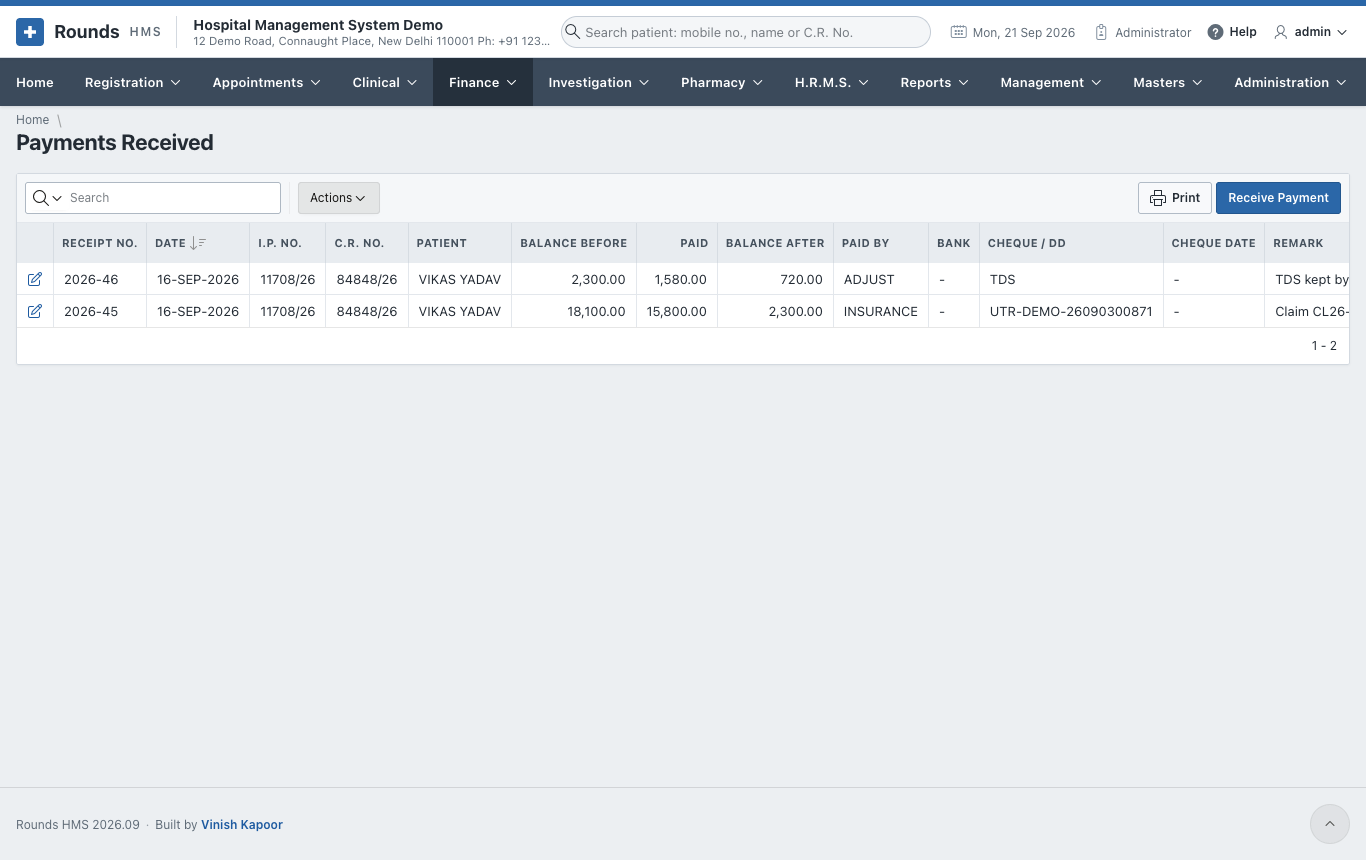
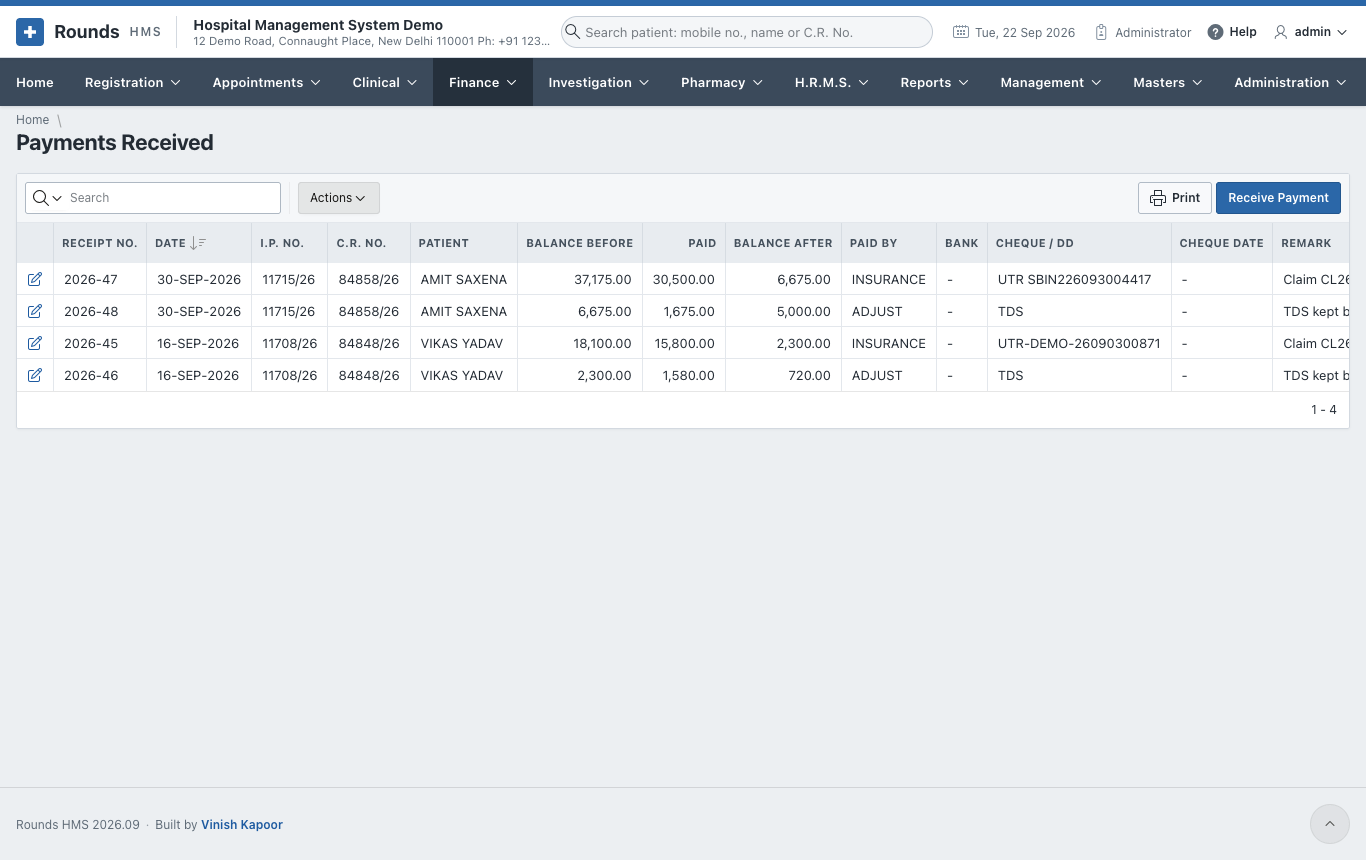
The patient's part at the counter, with pictures; the cashless workflow as it now runs
Outstanding Dues, the payment screen and Receive from a Patient are shown
for an insured admission (the insurer's part and the patient's), with a
warning not to take the insurer's part from the patient. The cashless
(TPA) workflow follows the new steps: a claim before admission, the
policy on the admission, the pre-authorisation, papers, the divided bill,
the claim sent and settled.

Changed region(s): [[0.0, 0.2721, 0.8609, 0.4535], [0.8609, 0.2721, 1.0, 0.4535], [0.6764, 0.0302, 0.7379, 0.0605]]

diff --git a/docs/workflows/index.md b/docs/workflows/index.md
@@ -65,14 +65,29 @@ steps link to the pages that explain each screen.
 
 ## A cashless (TPA) admission
 
-1. Admit the patient with the TPA or insurer as the **Empanelment**.
-2. [Open a claim](../finance/insurance.md#open-a-claim) for the admission. Fill in the policy details, and
-   record **Pre-authorisation sent**.
-3. Record the answer: approved (with the amount), a query, or denied.
-4. At discharge, make the final bill, then record **Claim sent** with the amount.
-5. When the money comes, record **Settled**: the amount, the UTR number, the TDS kept, and what was
-   disallowed. Say whether the hospital writes the disallowed part off, or the patient pays it.
-6. The [Receivables Ageing](../finance/day-end.md#receivables-ageing) shows claims still waiting.
+1. **Planned operation?** Open the claim first: **Finance > Insurance Claims > New Claim**, choose
+   [Or a Patient to Be Admitted](../finance/insurance.md#before-the-admission) and the insurer, and record
+   **Pre-authorisation sent**.
+2. **Admit** the patient: the insurer or TPA as the **Empanelment**, a bed from the free beds, and the policy
+   in the [Insurance part](../registration/admission.md#an-insured-patient) (TPA, policy no., member no.,
+   co-payment, room rent allowed). **Save** opens the claim, or takes over the one opened before.
+3. **Pre-authorisation.** Send the insurer's form the usual way. Then on the admission, **Open the Claim** >
+   **Record a Step** > **Pre-authorisation sent**, with the amount asked and the reference. (Skip this if
+   step 1 did it.)
+4. **The answer.** Record **Pre-authorisation approved** with the amount, or the query, or the denial. Ask
+   for an **enhancement** when the admission warns that the charges have passed the amount approved.
+5. **Papers.** Add the card, the ID, the forms and the letters to the claim's
+   [Papers](../finance/insurance.md#papers) as they come.
+6. **Discharge.** Make the [I.P. final bill](../finance/inpatient-billing.md#an-insured-patients-bill). It
+   shows what **the insurer pays** and what **the patient pays**. Take only the patient's part at the counter,
+   then **Save Bill and Discharge**.
+7. **Claim sent.** Send the file to the insurer, then record **Claim sent with the bills**. The amount
+   claimed is the insurer's part unless you enter another.
+8. **Settlement.** When the money comes, record **Settlement received**: the amount, the UTR number, the TDS
+   kept, and what was disallowed. Say whether the hospital writes the disallowed part off, or the patient
+   pays it.
+9. [Receivables Ageing](../finance/day-end.md#receivables-ageing) shows what each insurer still owes, and
+   the accounts keep it on the [insurer's own ledger](../finance/gst-accounts.md#insured-admissions-in-the-accounts).
 
 ## The end of the day
 

diff --git a/docs/finance/inpatient-billing.md b/docs/finance/inpatient-billing.md
@@ -98,8 +98,24 @@ the **Insurer's Part** and the **Patient's Part** beside it, and
 - **The Patient Pays**: what to ask the patient for. **Receive payment** is offered only when this is more
   than nought.
 
-For example: a bill of Rs 290 with a 10% co-payment reads *Balance (All) 290, From the Insurer 261, The
-Patient Pays 29*. The payment screen it opens shows the same two parts.
+![The dues of an insured admission](../assets/screens/finance/dues-insured.png)
+
+In the example, a bill of Rs 47,050 is owed by two people. The insurer owes Rs 45,750, which it pays when
+the claim is settled. The patient owes Rs 1,300 (the admission kit and attendant food, which insurers do not
+pay), and that is what the counter asks for.
+
+**Receive payment** opens the payment screen with both parts shown:
+
+![Receiving the patient's part](../assets/screens/finance/payment-insured.png)
+
+1. <span class="n">1</span> **Balance Due**: the whole balance of the admission.
+2. <span class="n">2</span> **Of It, from the Insurer**: not to be taken from the patient.
+3. <span class="n">3</span> **The Patient Pays**: enter this as the **Amount Received**, or less if the
+   patient pays in parts.
+
+!!! warning "Do not take the insurer's part from the patient"
+    The insurer's part is cleared when the settlement is recorded on the claim. If the patient paid it too,
+    the admission would show money owed back to the patient.
 
 ![The outstanding dues](../assets/screens/finance/dues.png)
 
@@ -124,9 +140,15 @@ and admissions:
 1. Type the **Mobile No.** and press ++tab++, or search the **Patient**. **Owes in All** shows what the
    patient owes, and **Dues of the Patient** lists each due. For an insured admission only the patient's own
    part is counted; the insurer's part is shown beside it but is not taken here.
+
+    ![Receiving from an insured patient](../assets/screens/finance/receive-insured.png)
+
+    <span class="n">1</span> **Owes in All** is Rs 1,300, the patient's own part, and the **Amount Received**
+    starts at it. <span class="n">2</span> **Dues of the Patient** shows **Still Due (All)**, **From the
+    Insurer** and **The Patient Pays** for each admission.
 2. **Amount Received**, the **Date**, a **Remark**, and **Paid By** (a UPI payment shows its QR code).
-3. Click **Receive the Payment**. The amount is set against the oldest admission first, with one receipt
-   for each admission it reaches. **Latest Receipts of
-   the Patient** shows the receipts made.
+3. Click **Receive the Payment**. The amount is set against the patient's part of the oldest admission
+   first, with one receipt for each admission it reaches. **Latest Receipts of the Patient** shows the
+   receipts made.
 
 ![Receiving a payment from a patient](../assets/screens/finance/receive.png)
